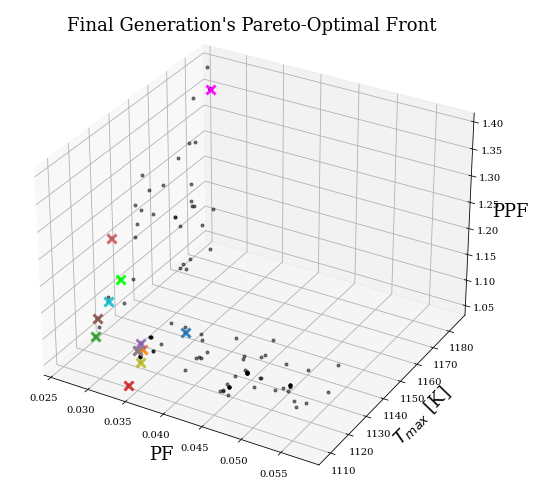
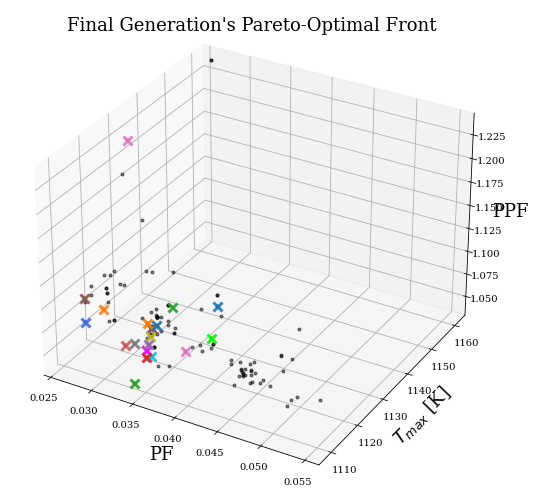
more writing

diff --git a/docs/ahtr_rollo_slab.tex b/docs/ahtr_rollo_slab.tex
@@ -566,7 +566,9 @@ I use a different reference point for each optimization problem.
 If a multi-objective optimization problem's hypervolume converges earlier than the 
 5 generations I intended to run (determined in Section 
 \ref{sec:multi-obj-hyperparameters}), I stop running the simulation at that generation. 
-
+However, if the multi-objective optimization problem's hypervolume does not converge by 
+generation 5, I run the problem for a few more generations till satisfactory convergence.
+ 
 \subsection{p-2a: Minimize $PF_{total}$ and $T_{max}$}
 \label{sec:p-2a}
 This section reports results from the two-objective optimization simulation p-2a, the 
@@ -1138,13 +1140,13 @@ Table \ref{tab:simulationp3b} shows simulation p-3b's optimization problem param
     \textbf{Constraints} & $k_{eff} \geq 1.35$\\ 
     \hline 
     \textbf{Genetic algorithm parameters} & Population size: 128 \\
-    & Generations: 5 \\
+    & Generations: 8 \\
     \hline
     \end{tabular}
 \end{table}
 
 Table \ref{tab:p3b-hypervolume} shows the hypervolume value at each generation, 
-confirming that simulation p-3b converges by generation 5. 
+confirming that simulation p-3b converges by generation 8. 
 \begin{table}[htbp!]
     \centering
     \onehalfspacing
@@ -1163,6 +1165,9 @@ confirming that simulation p-3b converges by generation 5.
     3 & 2.158 \\
     4 & 2.251\\
     5 & 2.262 \\
+    6 & 2.280 \\
+    7 & 2.310 \\
+    8 & 2.313 \\
     \hline
     \end{tabular}
 \end{table}
@@ -1170,7 +1175,7 @@ confirming that simulation p-3b converges by generation 5.
 Figure \ref{fig:slab-obj-3-3d-all} shows a 3D plot of the final generation's reactor 
 models' $PF_{total}$ against $T_{max}$ against $PPF_{fuel}$, crosses mark the 
 reactor models that fall on the Pareto front.
-Figure \ref{fig:slab-obj-3-distr-all} shows the 13 TRISO distributions and their
+Figure \ref{fig:slab-obj-3-distr-all} shows the 21 TRISO distributions and their
 total radius $(r_{top}, r_{bot})$ in the final generation that fall on the Pareto 
 front. 
 \begin{figure}[htbp!]
@@ -1184,7 +1189,7 @@ front.
     \end{subfigure}
     \begin{subfigure}{\textwidth}
         \includegraphics[width=\linewidth]{slab-obj-3-distr-all.png}
-        \caption{TRISO distribution for the 13 reactor models on the Pareto front.}
+        \caption{TRISO distribution for the 21 reactor models on the Pareto front.}
         \label{fig:slab-obj-3-distr-all} 
     \end{subfigure}
     \caption{Simulation p-3b -- ROLLO three-objective optimization to minimize total 
@@ -1196,7 +1201,7 @@ front.
     \label{fig:slab-obj-3-all}
 \end{figure}
 
-Figure \ref{fig:slab-obj-3-3d-all} demonstrates that \gls{ROLLO} found 13 widely spread 
+Figure \ref{fig:slab-obj-3-3d-all} demonstrates that \gls{ROLLO} found 21 widely spread 
 solutions in the final generation's Pareto front. 
 Figure \ref{fig:slab-obj-3-distr-most-minimized-distr-all} shows the three distributions 
 from Figure \ref{fig:slab-obj-3-distr-all} that most-minimized each objective. 
